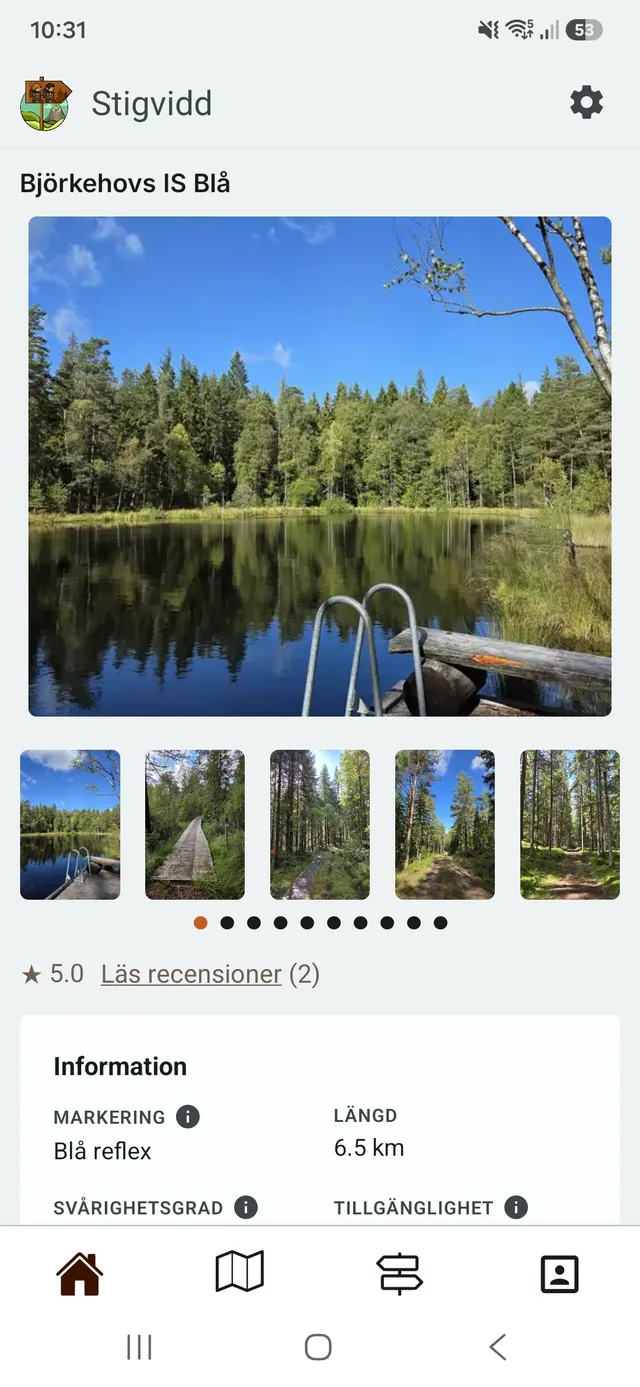
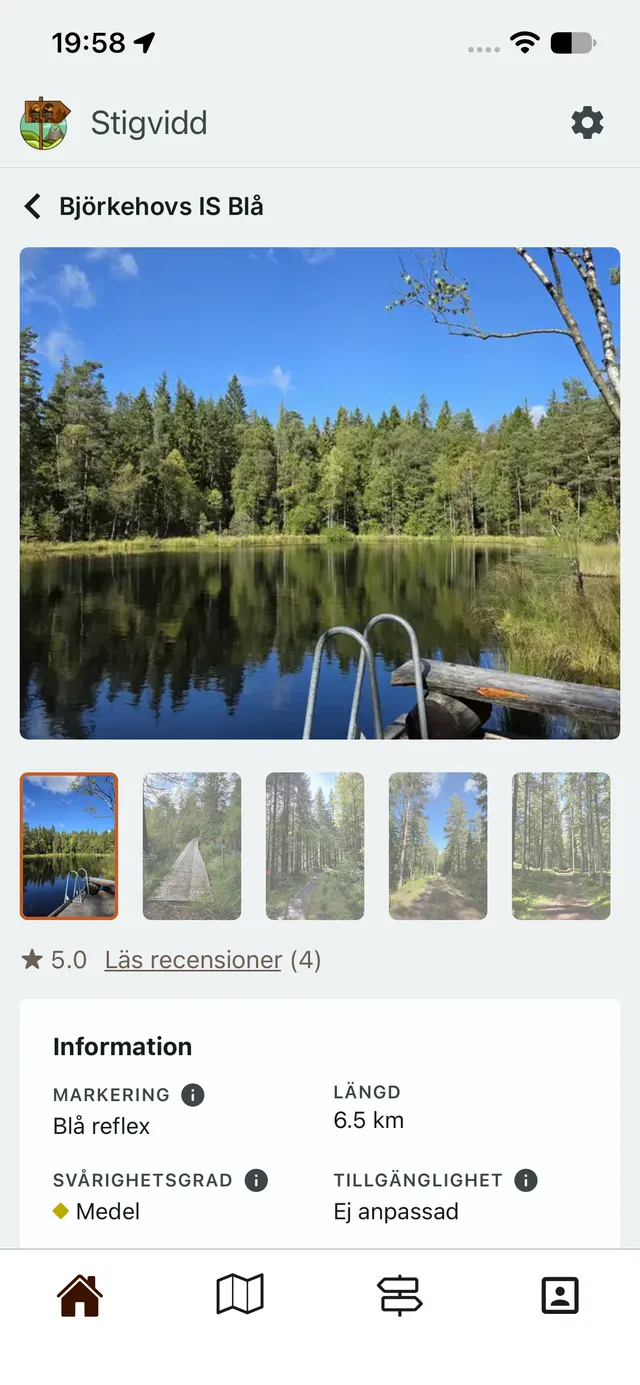
chore(site): swap in iPhone screenshots of the trail page

diff --git a/site/README.md b/site/README.md
@@ -75,7 +75,7 @@ Everything under `public/` is published by the next merge to `main`, with no opt
 
 ## Screenshots
 
-`public/screenshots/*.webp` are downscaled from the full-size originals in
-[`screenshots/`](../screenshots) at the repo root (1080×2340 JPEGs, ~1 MB each) to 640 px
-WebP, ~40–140 KB. Re-do it with any image tool when the app's screens change; the
-originals stay where they are.
+`public/screenshots/*.webp` are iPhone screenshots (1170×2532 or 1284×2778 PNG) downscaled
+to 640 px wide WebP at quality 80, ~40–100 KB each. The originals are not kept in the repo;
+[`screenshots/`](../screenshots) at the repo root holds an older Android set. Re-do it with
+any image tool when the app's screens change.
